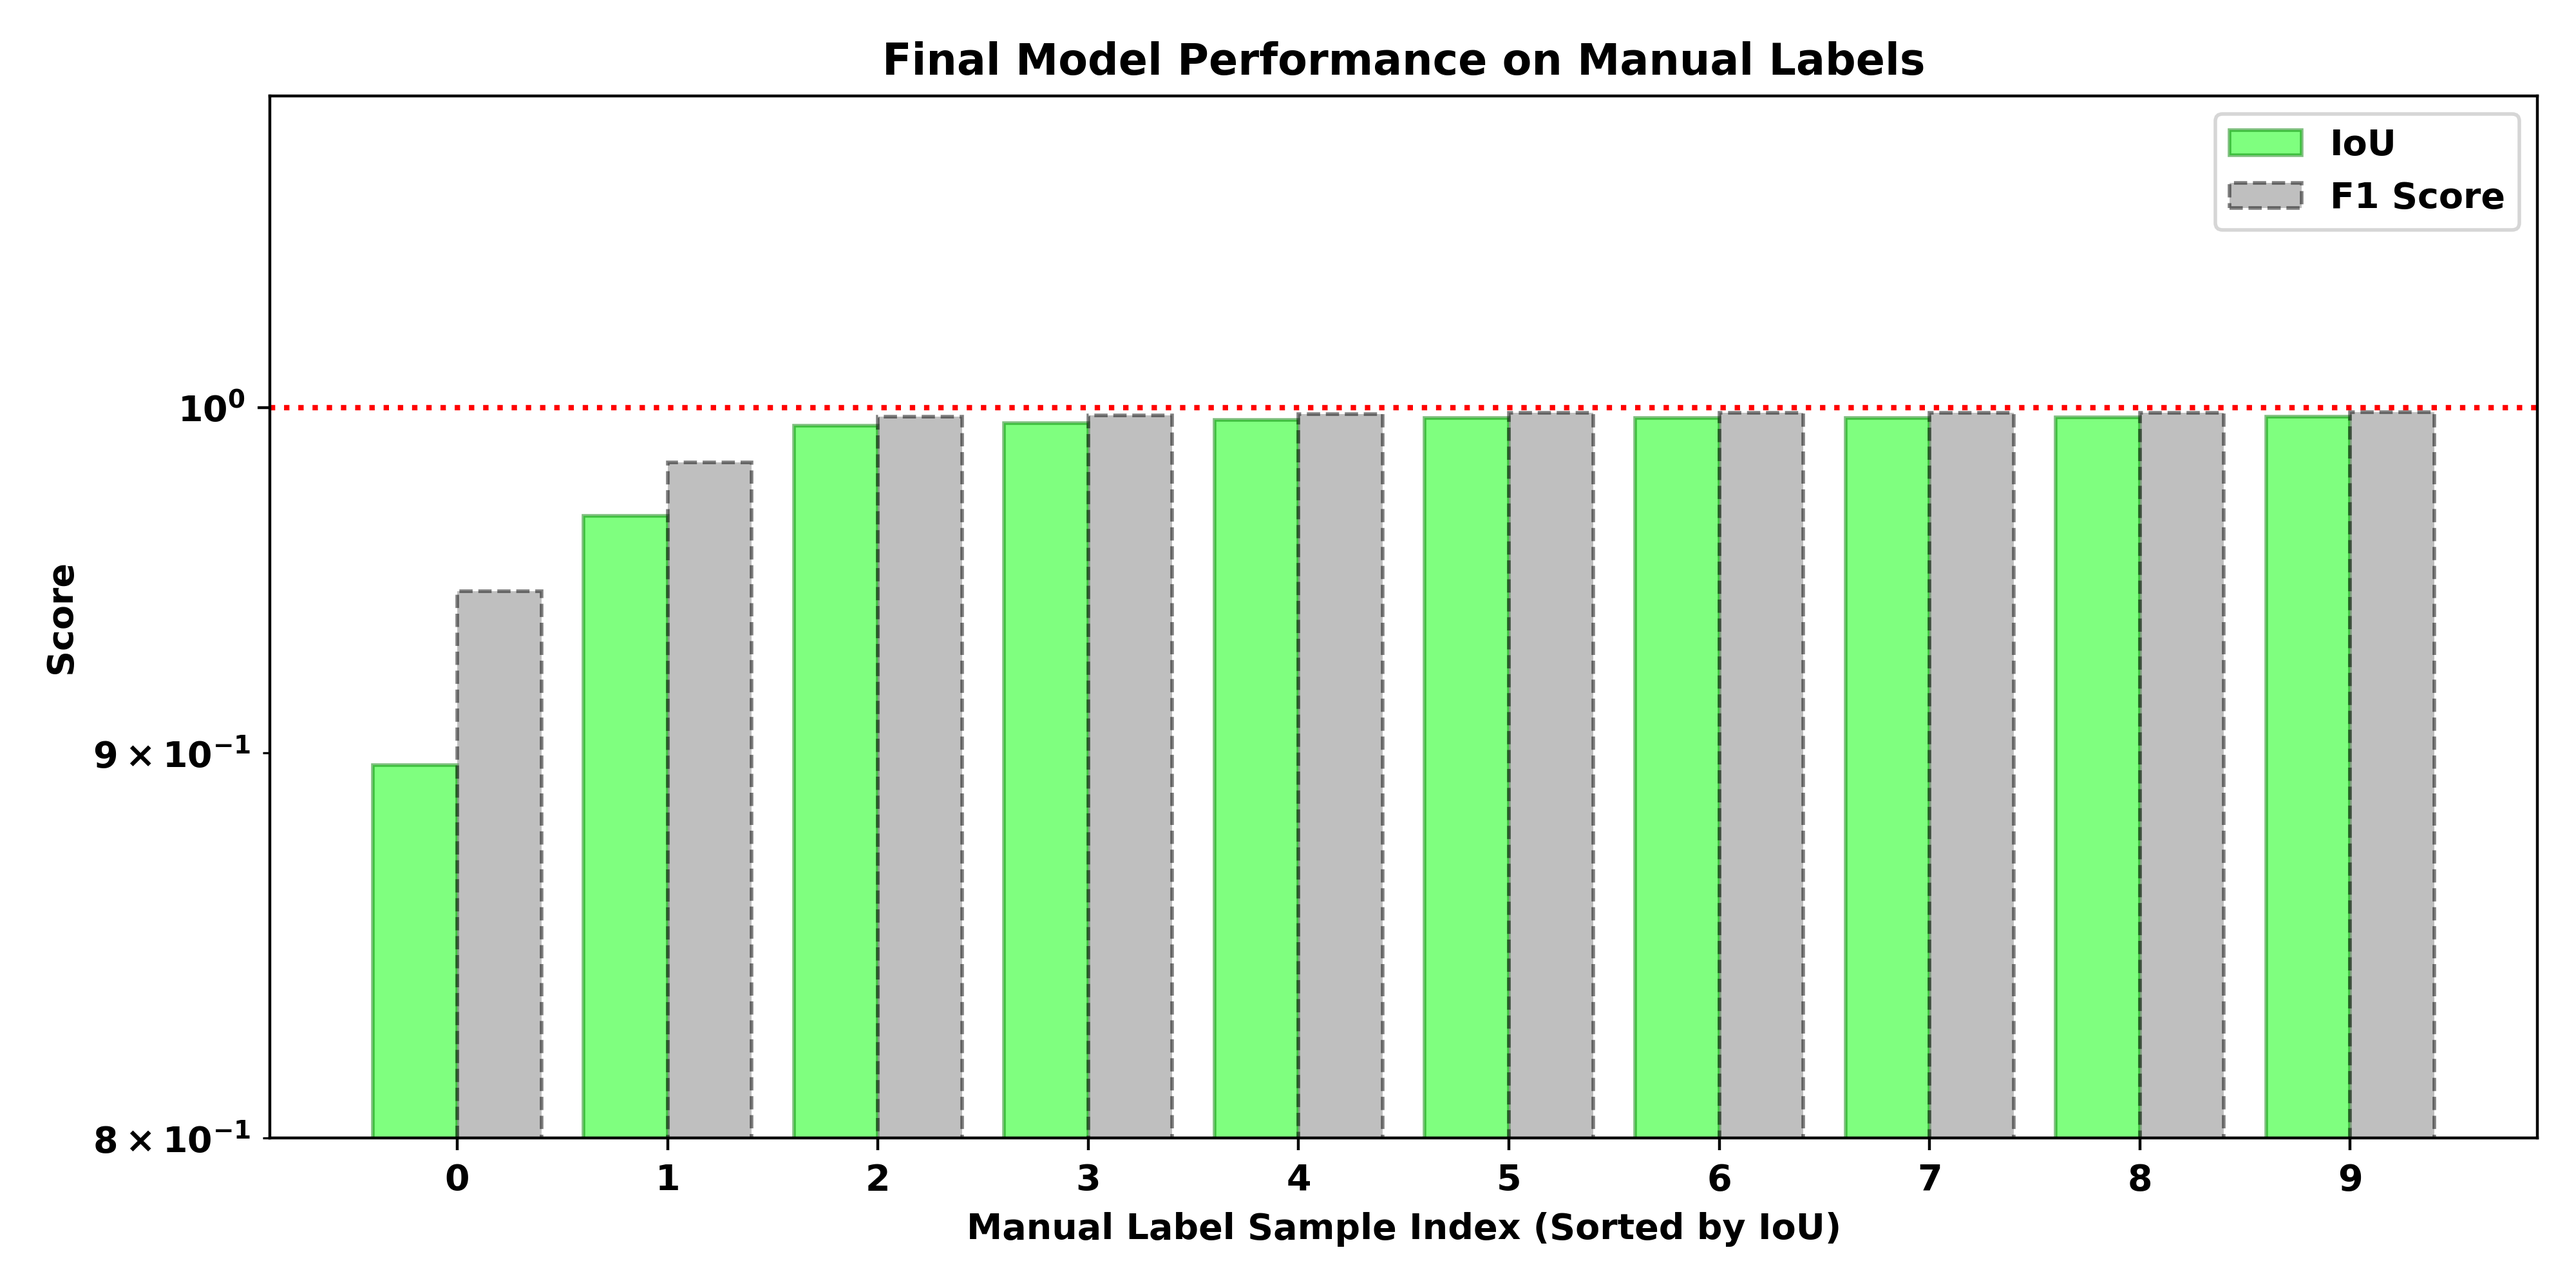
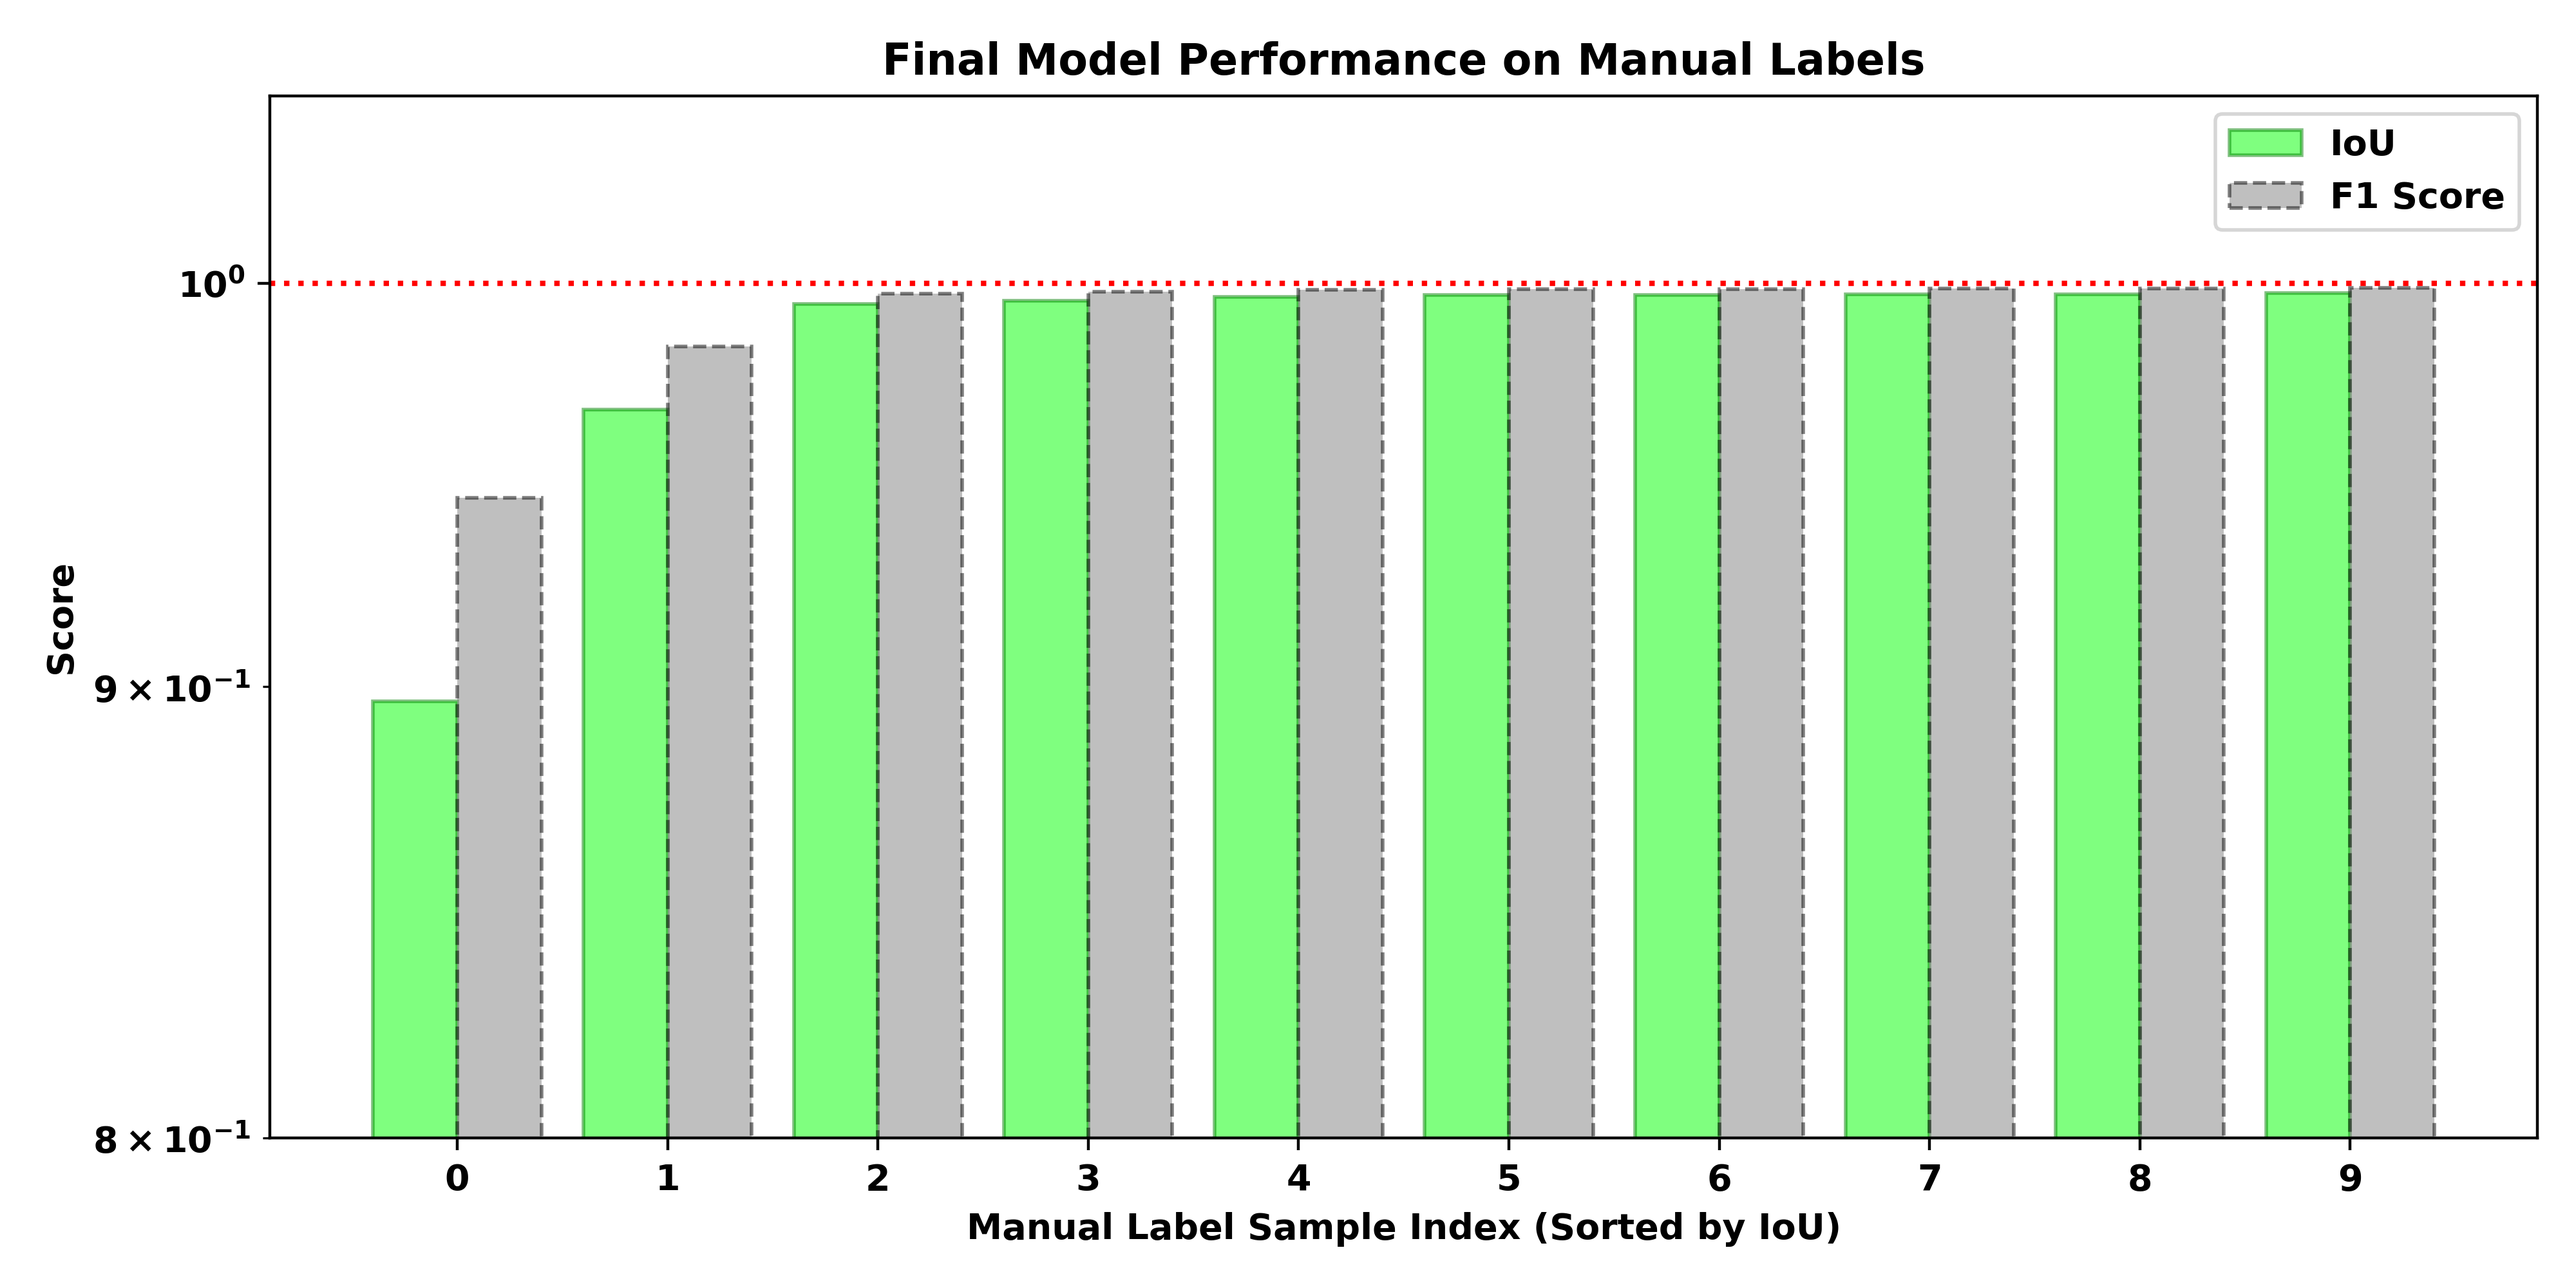
Added updated eval metrices script and plot

diff --git a/Project/src/eval_metrics.py b/Project/src/eval_metrics.py
@@ -62,7 +62,7 @@ def main():
     plt.xlabel("Manual Label Sample Index (Sorted by IoU)", fontweight = 'bold')
     plt.title("Final Model Performance on Manual Labels", fontweight = 'bold')
     plt.xticks(x, fontsize = 10)
-    plt.ylim(0.8, 1.1)
+    plt.ylim(0.8, 1.05)
     plt.legend()
     plt.tight_layout()
     os.makedirs(os.path.dirname(SAVE_PLOT), exist_ok = True)
